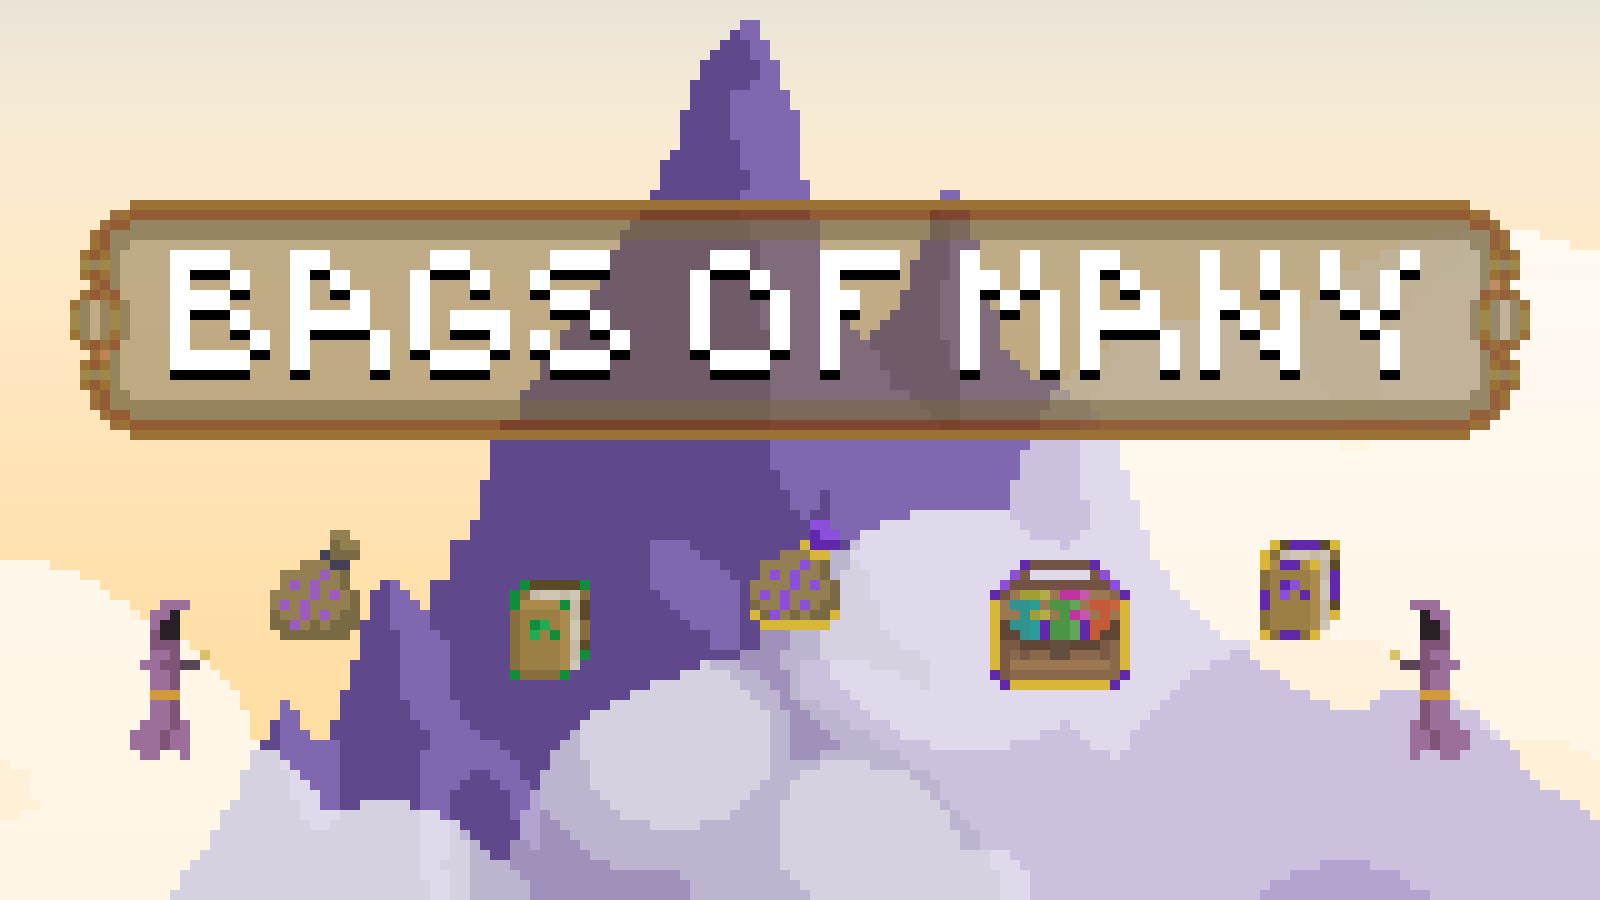
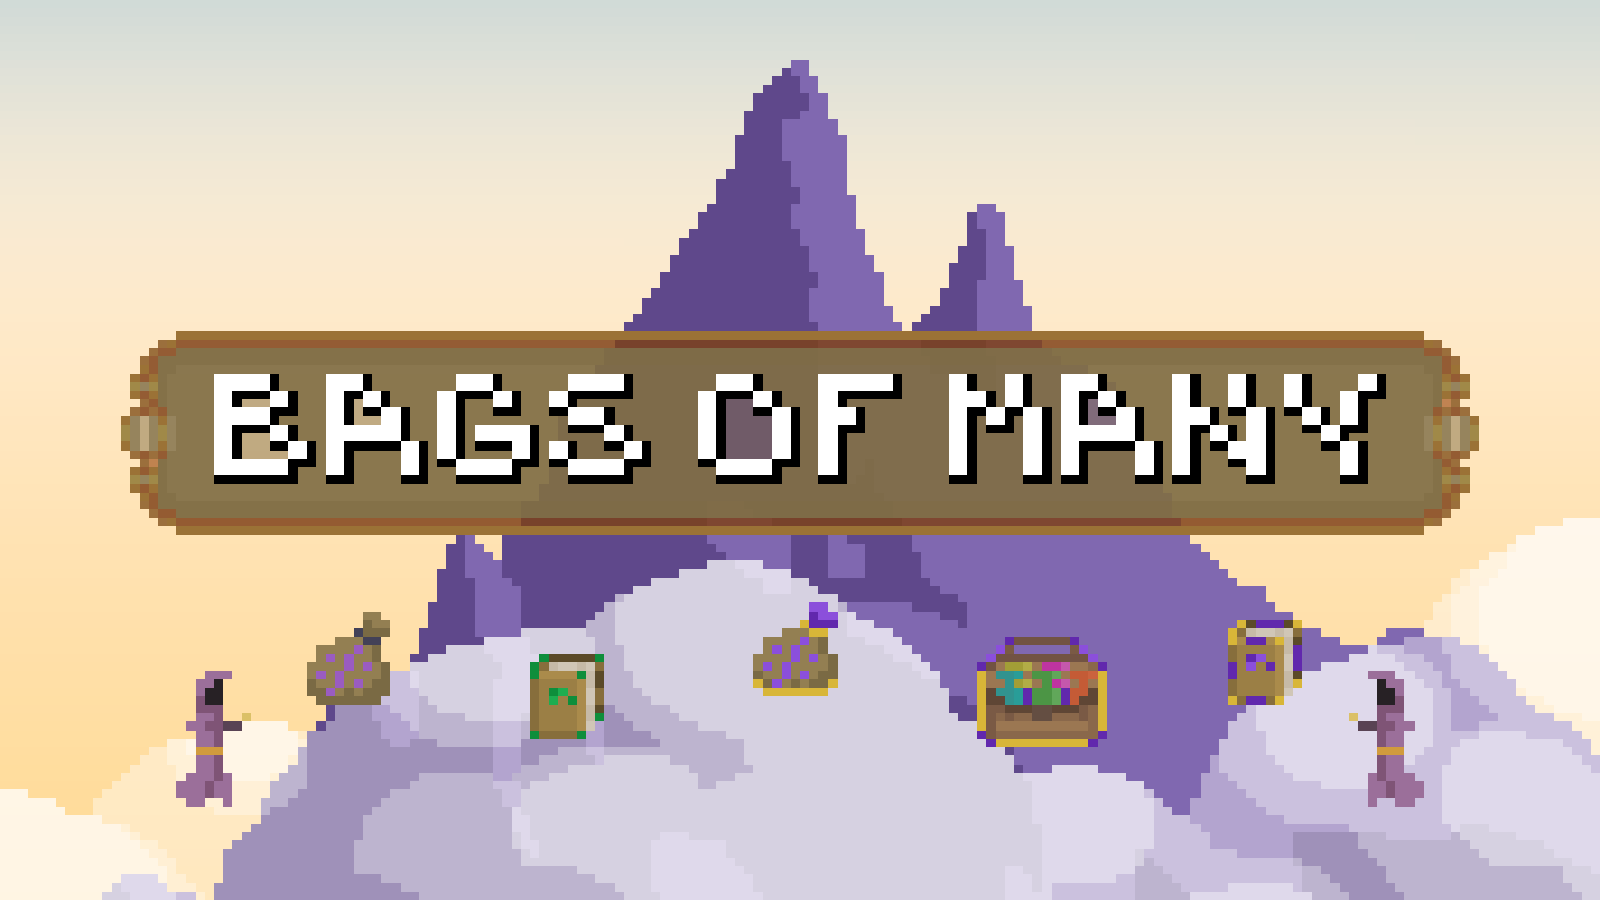
Modifying the readme for publish. Modifying the workshop preview image.

diff --git a/README.md b/README.md
@@ -1,5 +1,42 @@
 # Bags of Many
 
-<img src="files/ui_gfx/bag_gui_button_closed.png"> &nbsp; Inventory Bags in Noita as items that can be found to make it fit in the theme of the game. They occupy one of your item slot and will retain their inventory when thrown.
+This mod add bags in Noita as items that can be found and allow you to carry more of your wizard stuff! They occupy one of your item slot and will retain their inventory when thrown.
 
-It is my very first mod, I was having fun hope you will too!
+To use the bags you need to hold it in your hands then use your kick action near an object you want to pick up. The items you can pick up depends on the type of bag.
+
+I wanted to add an option for more inventory space that more closely fits the theme of the game and is more balanced.
+
+### Items
+
+Three types of bags exist:
+    - Universal <img src="files/ui_gfx/bag_universal_small.png">
+    - Binders <img src="files/ui_gfx/bag_spells_small.png">
+    - Potions <img src="files/ui_gfx/bag_potions_small.png">
+
+Universal bags allow you to carry by default: wand, potions and spells.
+Spell Binders allow you to carry spells.
+Potion Pouches allow you to carry potions.
+
+Three types of bag size exist by type:
+    - Small <img src="files/ui_gfx/bag_universal_small.png">
+    - Medium <img src="files/ui_gfx/bag_universal_medium.png">
+    - Big <img src="files/ui_gfx/bag_universal_big.png">
+
+Each of these size give a progressively larger inventory space. The space is dependant on the type of bags you are using and so is the inventory size increase.
+
+By default these are the stats for each bags and tiers:
+|   |  Universal <img src="files/ui_gfx/bag_universal_small.png"> | Binders <img src="files/ui_gfx/bag_spells_small.png"> | Potions <img style="top:10px" src="files/ui_gfx/bag_potions_small.png"> |
+|---|---|---|---|
+| **Small** | 3 | 5 | 2 |
+| **Medium** | 5 |  7 | 3 |
+| **Big** | 8 | 10 | 5 |
+
+### Acknowledgements
+
+I would like to thank **Horscht** especially! His mod [Inventory Bags](https://modworkshop.net/mod/32437) is the reason I created this mod, his code was very insightful for my first steps in modding noita and he also provided me with a lot of help during development.
+
+Special thanks to [Tomas](https://github.com/T-Clark-D) for art direction and inspirations.
+
+I would also like to thank these people for providing me feedback on my multiple questions and comments: HämisinpääIIikkö (Copi), Eba (Evaisa), GrahamBurger, Conga Lyne, 🐌 Nathan 🐢, dextercd and hämis248. Hope i did not forget anyone ping me on discord if i did!
+
+It is my very first mod, it was fun making this mod hope you will have fun using it too!
